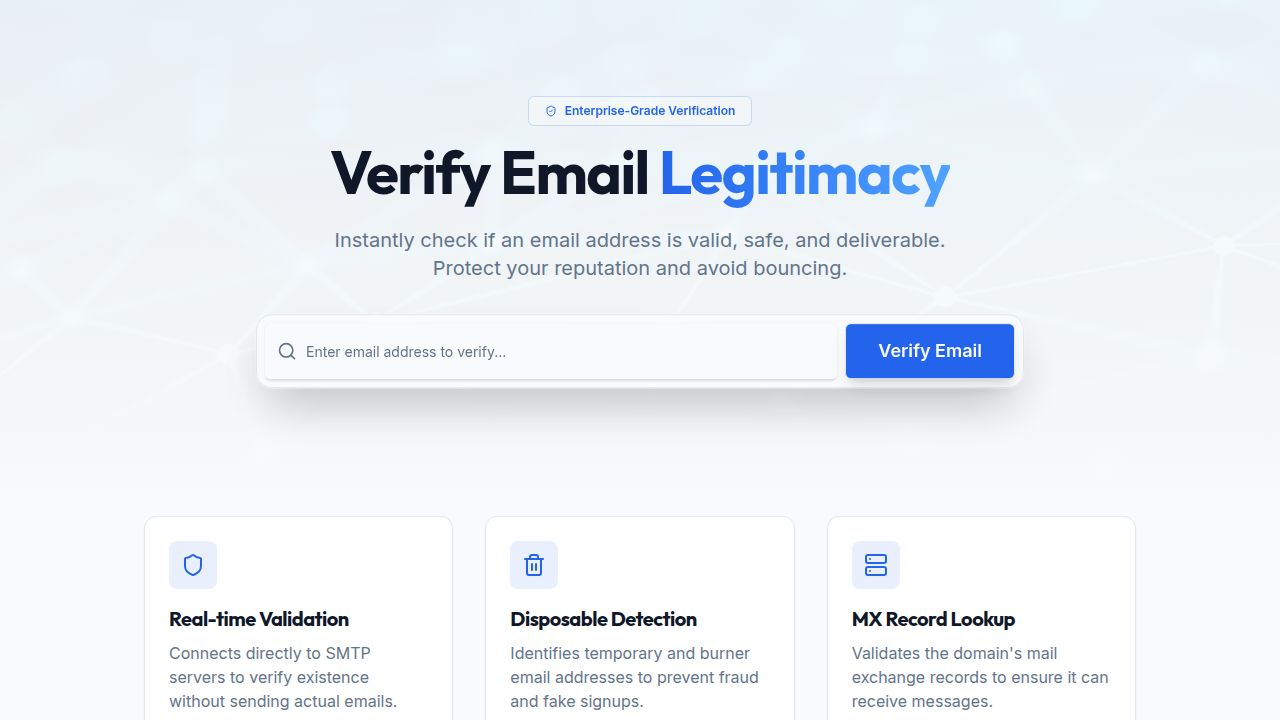
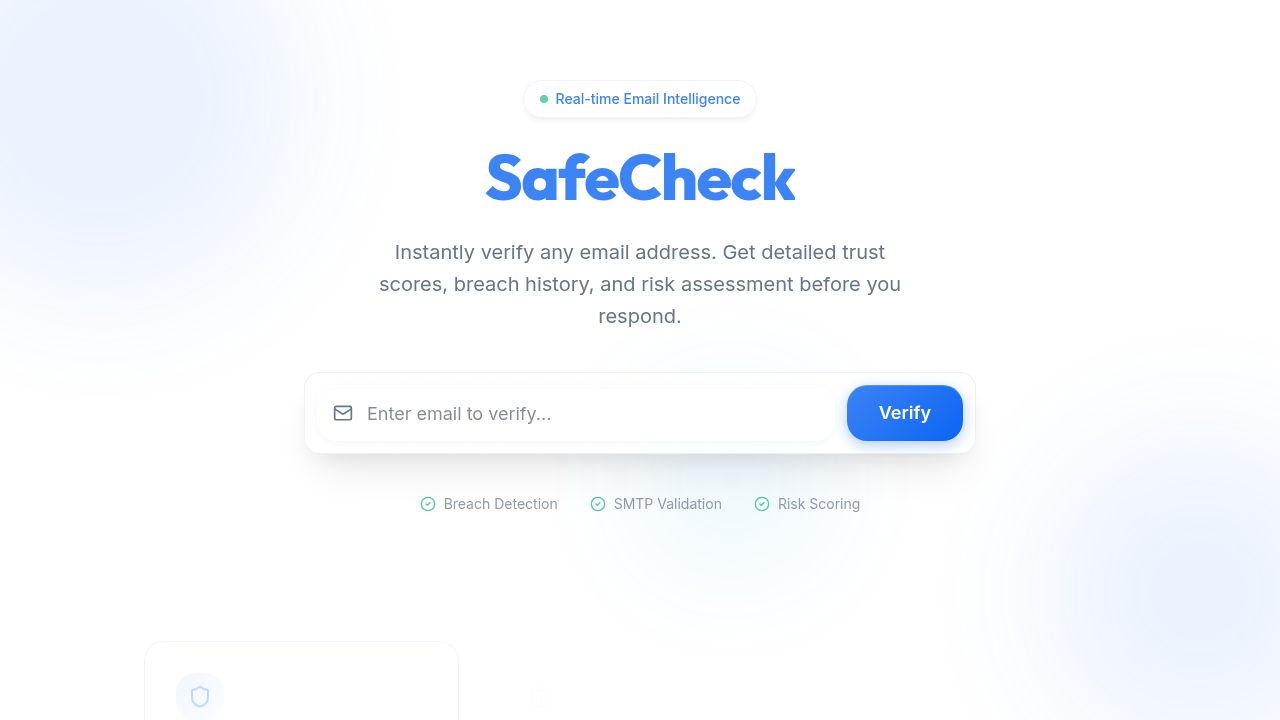
Update the application's main title to SafeCheck
Changed the main title in the home page component from "Is that email actually safe?" to "SafeCheck" by modifying the text content within the `sc-hero-title` element.

Replit-Commit-Author: Agent
Replit-Commit-Session-Id: a078a9b5-50c8-48ac-9a6d-d4fb9034e2bc
Replit-Commit-Checkpoint-Type: full_checkpoint
Replit-Commit-Event-Id: f1ad141b-1c90-4771-a699-7a6ae9310316
Replit-Commit-Screenshot-Url: https://storage.googleapis.com/screenshot-production-us-central1/ac7a7464-909c-49be-a65a-75a8dac1ba8f/a078a9b5-50c8-48ac-9a6d-d4fb9034e2bc/lin8Zfe

diff --git a/client/src/pages/home.tsx b/client/src/pages/home.tsx
@@ -268,8 +268,7 @@ export default function Home() {
             </div>
             
             <h1 className="sc-hero-title font-display">
-              Is that email{" "}
-              <span className="sc-text-gradient">actually safe?</span>
+              <span className="sc-text-gradient">SafeCheck</span>
             </h1>
             
             <p className="sc-hero-subtitle text-muted-foreground mx-auto">
